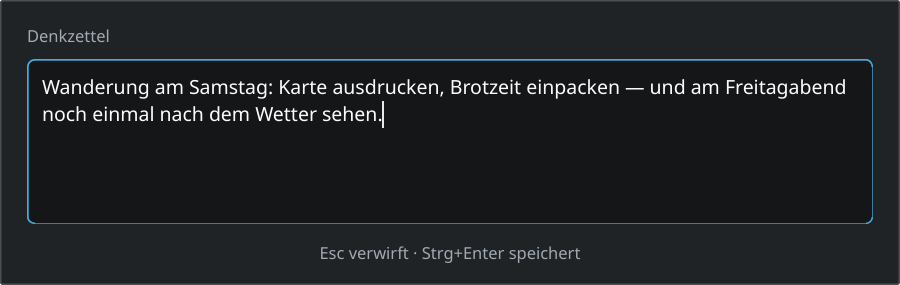
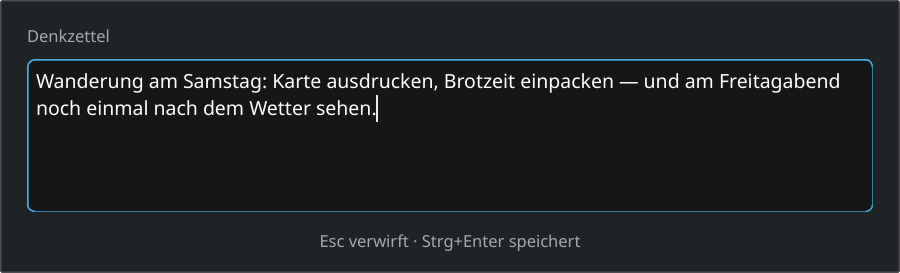
The note text begins on the inner edge of its field, not four points further in
Issue #81 was filed on 04.08.2026, when the capture window was one continuous
surface. A note text starting right of the application name had no reason there.
On 06.08.2026 the field took the graphic `widgets/lineedit` (#100) because the
customer could not otherwise see where they were typing, and since then a frame
is drawn — a text that begins inside a drawn frame is what every input field
does.

Measured 24.08.2026 across all eight installed themes: the offset is ten points,
of which six are the border (6.00 under every one of them) and four are Qt's own
document margin, which was added on top. Only the six are drawn by anything. In
the picture the ink of the application name and of the note text stood 9.3
points apart; they now stand 5.3 apart, and that distance is the frame.

Where a theme brings no field graphic the margin is zero and both edges fall
together — the single surface of wireframe 4b, in the cases where it still
exists. `documentMargin >= border` from #100 AC 5 is met exactly now, with no
slack left over, and the comment says so.

The resting window loses eight points, 190 to 182, because the margin acts on
all four sides. The customer approved that with the decision; the five-line
guarantee of SPEC 3 holds, and the check that anchors it from outside is
unchanged and green. Both README pictures of the capture window are renewed.

Criterion 1 of the issue asked for one shared left edge and was corrected on the
[…]

diff --git a/src/capture/capturewindow.cpp b/src/capture/capturewindow.cpp
@@ -78,15 +78,6 @@ constexpr QLatin1StringView FieldPrefix("base");
 constexpr QLatin1StringView FocusPrefix("focus");
 
 /**
- * What a QTextDocument keeps around its text before anything of ours is added.
- *
- * Written down rather than read back: the field's border is counted **on top**
- * of it on every theme change, and a value read back from the document would
- * carry the last theme's border into the next one and grow without end.
- */
-constexpr qreal BareDocumentMargin = 4;
-
-/**
  * The variant of the theme's graphic a window without a blurring compositor
  * gets. Plasma picks between `opaque` and `translucent` the same way
  * (`KSvg::ImageSet::setSelectors()`, imageset.h).
@@ -629,21 +620,32 @@ void CaptureWindow::applyFieldMargin()
         m_field->getMargins(left, top, right, bottom);
     }
 
-    // The strip the field graphic claims for itself, counted on top of the
-    // inner spacing of 4b just as the hull's is — the text moves inwards, and
-    // the application name and the footer stay where they are, because the
-    // layout does not hear of this at all.
+    // The strip the field graphic claims for itself, and nothing on top of it:
+    // the note text begins on the inner edge of the drawn border and no
+    // further in. The application name and the footer stay where they are,
+    // because the layout does not hear of this at all.
+    //
+    // Qt's own document margin of four used to be added here. That put the
+    // note text nine to ten points right of the application name while only
+    // six of them were drawn by anything — measured 24.08.2026 across all
+    // eight installed themes, whose border is 6.00 on every one of them, and
+    // in the picture at 9.3 points. Four of them belonged to nobody. Where a
+    // theme brings no field graphic the margin is now zero and both edges fall
+    // together, which is the single surface of wireframe 4b (issue #81; the
+    // issue predates the field graphic of #100 and asked for the two edges to
+    // coincide, which with a drawn frame between them is not what a text field
+    // does).
     //
     // One number for four sides, because a document has one margin. The widest
     // of the four, so no side of the text can end up underneath the border
-    // (issue #100, AK 5).
+    // (issue #100, AK 5 — met exactly now, with no slack left over).
     //
     // `documentMargin` and not `setViewportMargins()`, which is protected, nor
     // `setContentsMargins()` on the text area, which measurably does nothing
     // (F7). And adjustHeight() already counts the document margin into the
     // chrome, so the window grows by the two borders on its own.
     const qreal border = qMax(qMax(left, right), qMax(top, bottom));
-    m_text->document()->setDocumentMargin(BareDocumentMargin + border);
+    m_text->document()->setDocumentMargin(border);
 }
 
 void CaptureWindow::applyTextColours()
@@ -824,16 +826,26 @@ void CaptureWindow::adjustHeight()
     const int chrome = 2 * qRound(m_text->document()->documentMargin()) + 2 * m_text->frameWidth();
 
     m_text->setFixedHeight(capture::textAreaHeight(documentLines, m_text->fontMetrics().lineSpacing(), chrome));
-    // Both lines before the resize, and only the second one is obvious. On a
-    // **shown** window the layout has written its total minimum onto the window
-    // itself, and `resize()` is clamped by that minimum — so a window that grew
-    // to eight lines keeps the minimum of eight lines and cannot shrink back,
-    // whatever the hint says (issue #79, measured: minimum 244 against a hint
-    // of 190). `activate()` recomputes the minimum and applies it, and it does
-    // nothing at all while the layout still counts as activated, which is why
-    // `invalidate()` stands in front of it. On a hidden window no minimum has
-    // been applied yet — which is why the fault cannot occur there, and why the
-    // check for it has to show the window.
+    // Both lines before the resize, and only the second one is obvious. The
+    // setFixedHeight() above does not reach the layout at once; it posts a
+    // layout request that is delivered later. Until then the layout hands out
+    // the hint it cached and the window keeps the minimum the layout applied
+    // when it was last activated — and `resize()` is clamped by that minimum.
+    // On a **shown** window the resize therefore takes no effect **in either
+    // direction**. Measured 24.08.2026 on the unfixed state: a window at rest
+    // stays at rest even after eight lines are typed into it, 186 against 186.
+    // Issue #79 describes only the way back — its own measurement of 04.08.2026
+    // shows the window still growing then (174 → 228, and staying at 228 after
+    // clearing). Since then it does not even grow while shown; what changed in
+    // between is not established here.
+    //
+    // `invalidate()` drops the cached hint, `activate()` recomputes it and
+    // applies the minimum at once — and does nothing at all while the layout
+    // still counts as activated, which is why both lines are needed and why
+    // the order is this one.
+    //
+    // On a hidden window no minimum has been applied yet, so the fault cannot
+    // occur there. That is why the check for it has to show the window.
     layout()->invalidate();
     layout()->activate();
     resize(width(), sizeHint().height());

diff --git a/CHANGELOG.md b/CHANGELOG.md
@@ -18,8 +18,23 @@ follows 0.x SemVer (decided on 2026-08-02; visible since #61 via
   day at all, anywhere. The list now shows date and time for every note, and
   the reading pane adds the weekday and seconds; both follow the arrangement
   of the system language and keep the four-digit year (#108).
+- **The note text sits closer to the edge of its field.** It kept four points
+  of spacing that nothing drew, on top of the border the desktop theme draws
+  around the input area — so it began nine to ten points right of the
+  application name above it, where only six of them were visible as a frame.
+  The text now begins on the inner edge of that frame, and under a theme that
+  draws no frame at all both edges fall together. The resting window is eight
+  points shallower because of it; the field still holds the five lines the
+  specification promises (#81).
 
 ### Fixed
+
+- **A capture window that is open shrinks back again.** Anyone who wrote eight
+  lines, discarded them and immediately started the next note sat in front of a
+  window that had stayed too large — and it stayed too large after Esc and a
+  second `Meta+N` as well, and after a change of the interface font. Only a
+  window nobody was looking at shrank back correctly, which is also why the
+  check that was supposed to hold this stood green for so long (#79).
 
 - **The capture window no longer crashes when a desktop theme has been
   removed.** Anyone who set a desktop theme and later uninstalled its package
